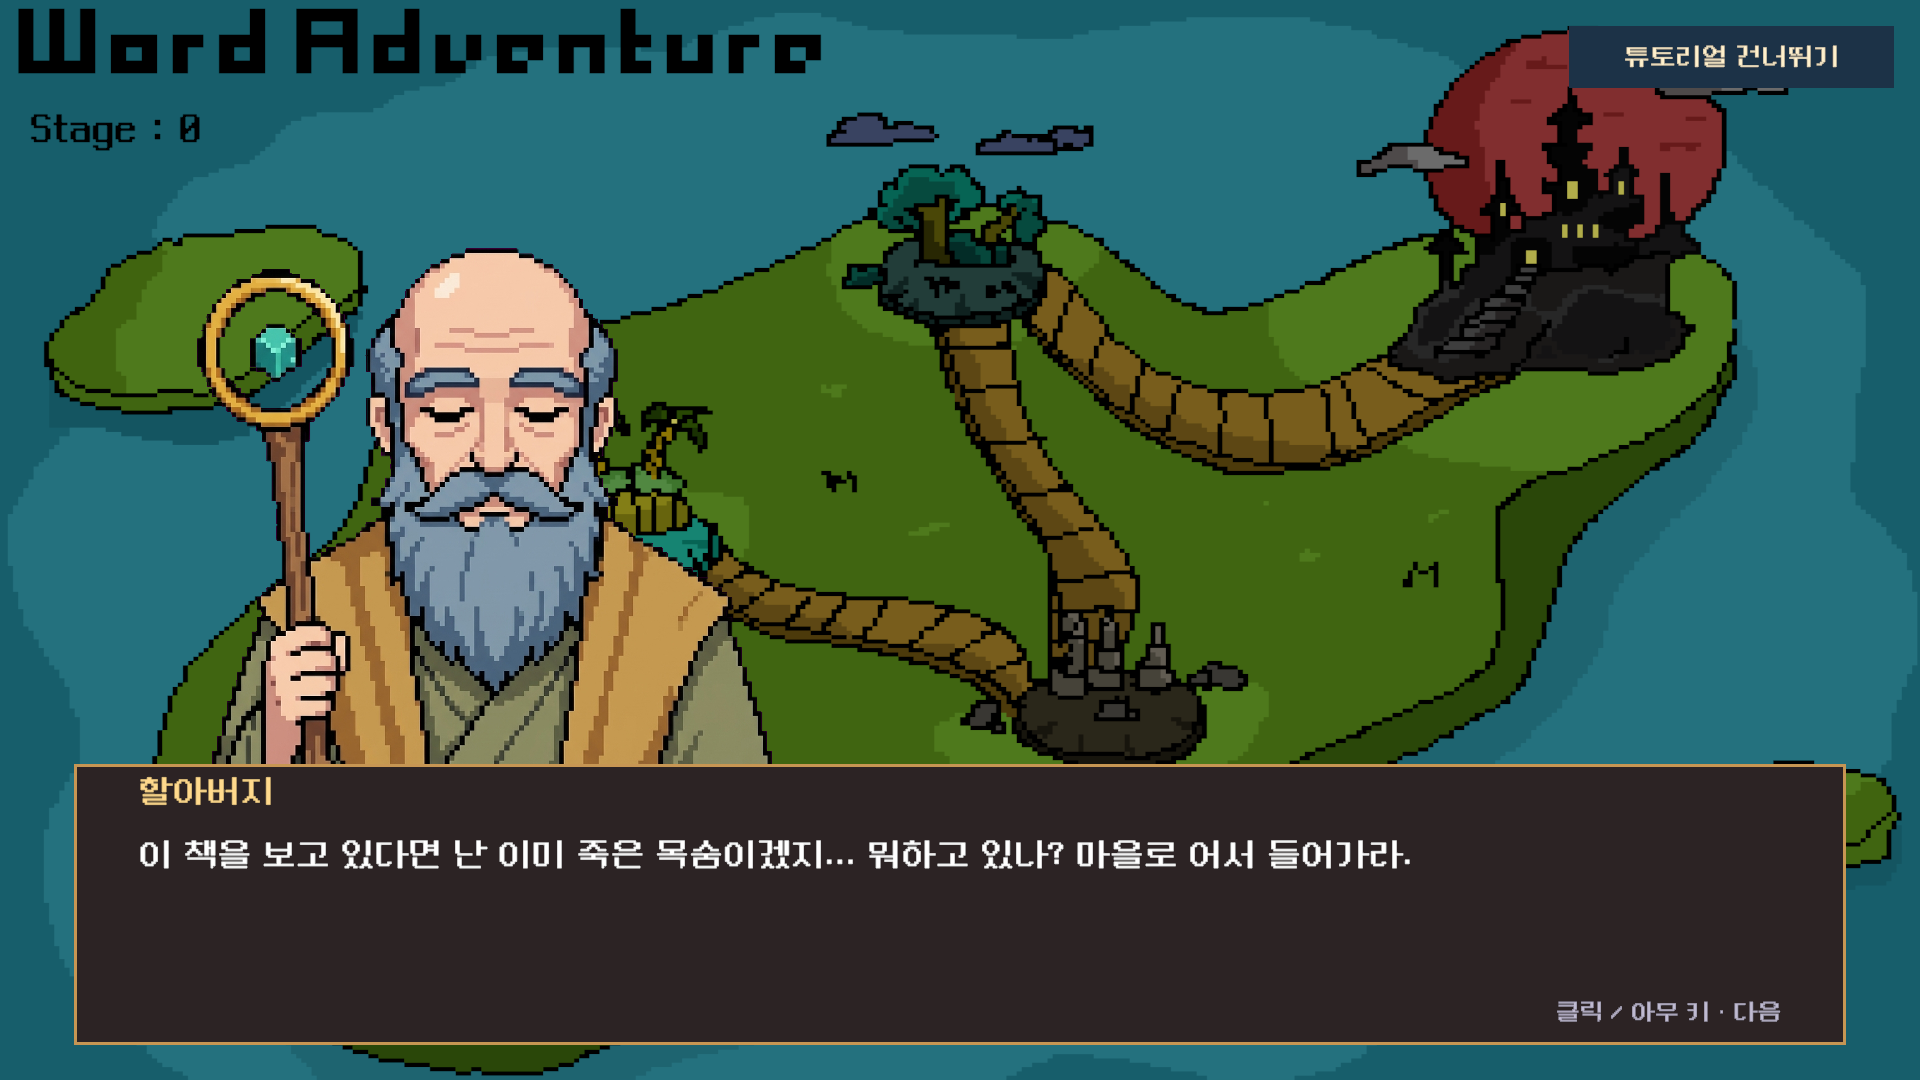
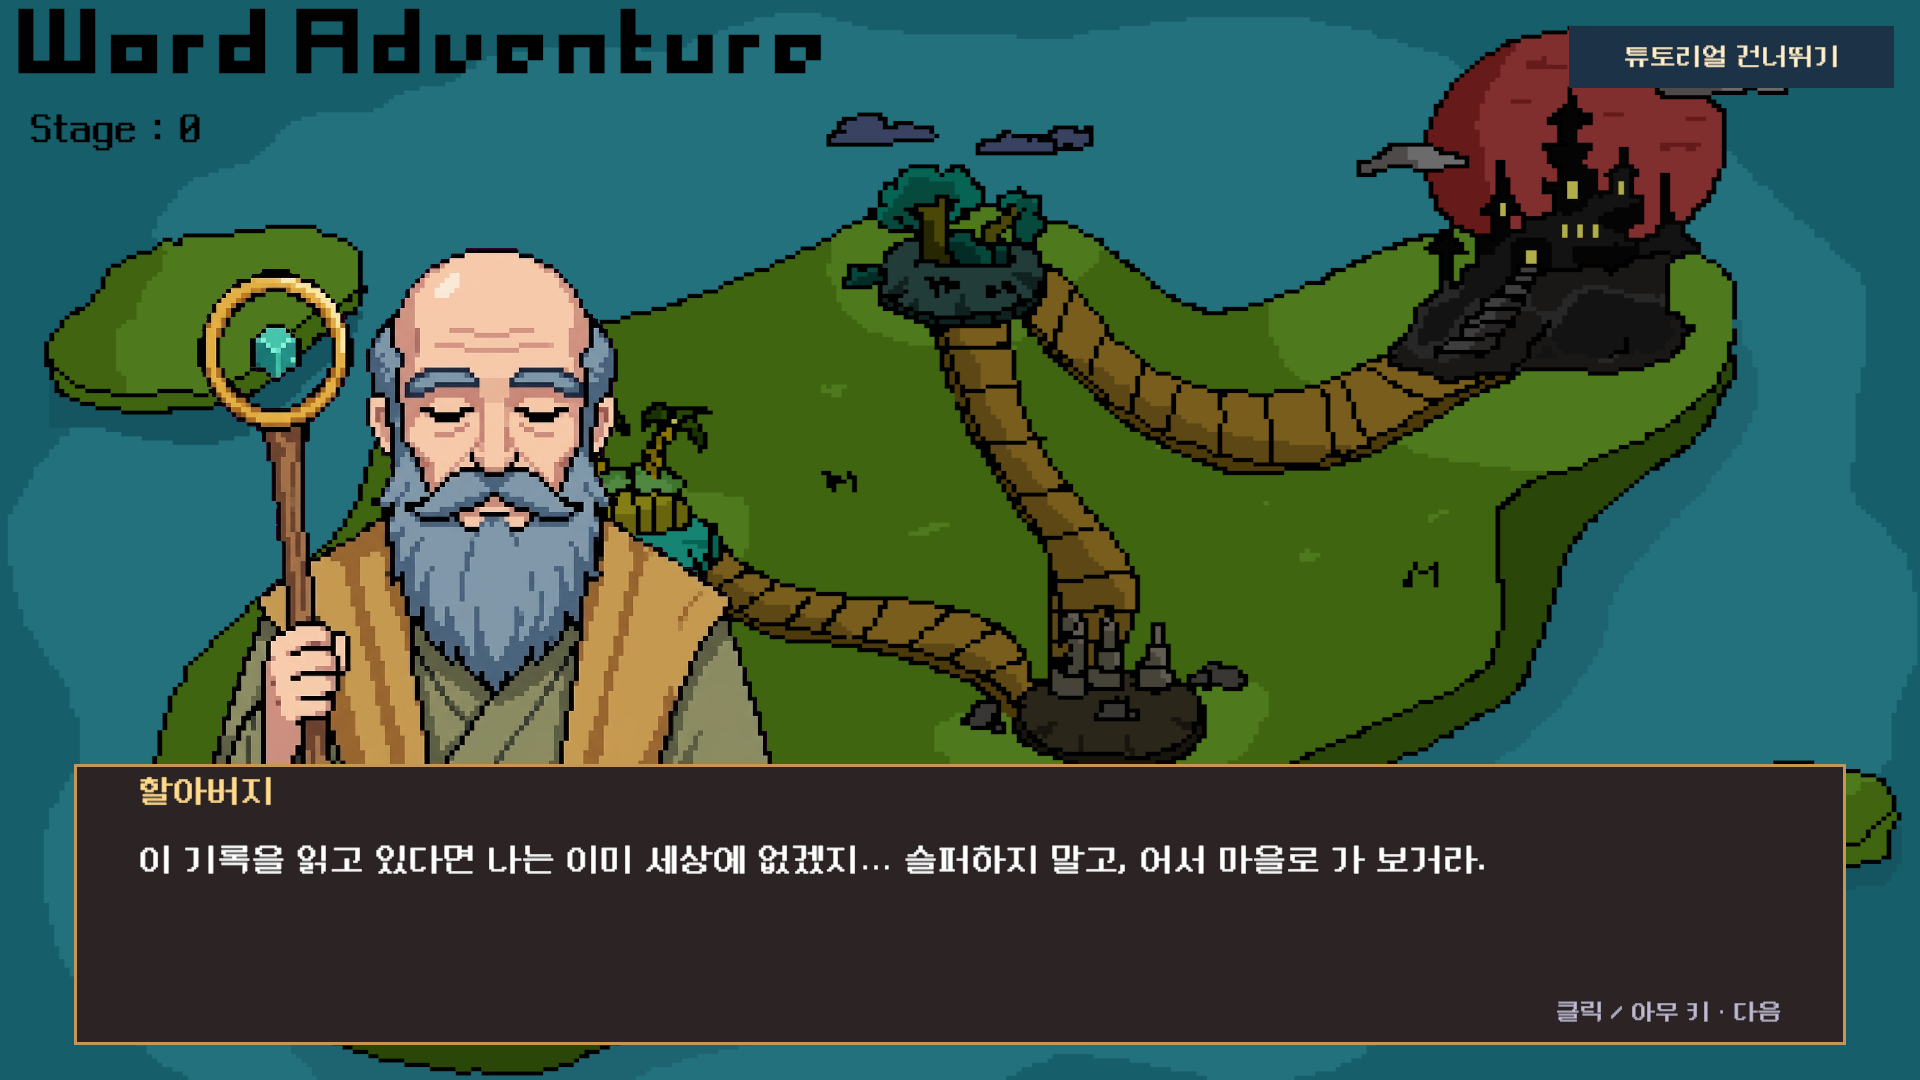
feat: 1부 대화 연결 나레이션 추가, 할아버지 말투 수정, 엔딩 전 깜박임 제거
- 대사 줄에 narration 을 추가하고, 첫 클리어는 할아버지 작별 → 워드의
  "…할아버지." → 나레이션 → 평원 주민 순서로, 마왕 처치 후는 남쪽 마을로
  내려가는 나레이션 뒤 재회하도록 이었다. 상대 초상화는 상대가 처음 말할
  때부터 보인다.
- 튜토리얼 할아버지 대사 13줄의 말투를 다듬었다.
- 마왕 성 입장과 마왕 처치 후처럼 다른 씬으로 넘어가는 대화는 씬이 바뀔
  때까지 대화창을 덮어 두어 맵이나 클리어 화면이 깜박이지 않게 했다.
- TMP Settings 에서 한글을 띄어쓰기 단위로 줄바꿈하게 했다.

Changed region(s): [[0.0938, 0.7639, 0.7812, 0.825]]

diff --git a/Assets/Scripts/Story/StageDialogueView.cs b/Assets/Scripts/Story/StageDialogueView.cs
@@ -25,12 +25,14 @@ namespace Story
         }
 
         // 다른 대화나 튜토리얼이 입력을 잡고 있으면 끝나기를 기다린 뒤 재생하고, 다 보면 읽음으로 기록한다.
-        public static IEnumerator Play(StageDialogueData data, StageDialogueChapter chapter)
+        // 대화 뒤에 다른 씬으로 넘어갈 때는 closeWhenDone 을 끄면 씬이 바뀔 때까지 마지막 대사를 덮어 두어
+        // 그 사이에 지금 씬이 비쳐 보이지 않는다.
+        public static IEnumerator Play(StageDialogueData data, StageDialogueChapter chapter, bool closeWhenDone = true)
         {
             if (InteractionLock.IsLocked) yield return new WaitUntil(() => !InteractionLock.IsLocked);
             bool completed = false;
             var view = new GameObject("StageDialogue", typeof(RectTransform)).AddComponent<StageDialogueView>();
-            view.Begin(data, chapter, () => completed = true);
+            view.Begin(data, chapter, () => completed = true, closeWhenDone);
             yield return new WaitUntil(() => completed);
             SaveLoadController.MarkStageDialogueSeen(chapter.SeenBit);
         }
@@ -42,9 +44,13 @@ namespace Story
         int line;
         bool ownsLock;
         bool finishing;
+        bool closeWhenDone = true;
+        bool speakerAppeared;
 
-        public void Begin(StageDialogueData data, StageDialogueChapter dialogue, Action onCompleted)
+        public void Begin(StageDialogueData data, StageDialogueChapter dialogue, Action onCompleted,
+            bool closeOnFinish = true)
         {
+            closeWhenDone = closeOnFinish;
             chapter = dialogue;
             dialogueData = data;
             completed = onCompleted;
@@ -101,8 +107,12 @@ namespace Story
         void ShowLine()
         {
             StageDialogueLine current = chapter.lines[line];
-            chat.SetPortraits(dialogueData.wordPortrait, chapter.speakerPortrait, current.wordSpeaking);
-            chat.UpdateChatStream(current.wordSpeaking ? "워드" : chapter.speakerName, current.text);
+            // 상대 초상화는 상대가 처음 말할 때부터 보여 준다. 워드의 혼잣말로 시작하는 대화에서 미리 나오지 않게 한다.
+            if (!current.wordSpeaking && !current.narration) speakerAppeared = true;
+            chat.SetPortraits(dialogueData.wordPortrait, speakerAppeared ? chapter.speakerPortrait : null, current.wordSpeaking);
+            // 이름을 비우면 공통 대화창이 이름과 초상화를 숨기고 나레이션으로 보여 준다.
+            string speaker = current.narration ? "" : current.wordSpeaking ? "워드" : chapter.speakerName;
+            chat.UpdateChatStream(speaker, current.text);
         }
 
         void Update()
@@ -134,7 +144,7 @@ namespace Story
             ownsLock = false;
             InteractionLock.IsLocked = false;
             completed?.Invoke();
-            Destroy(gameObject);
+            if (closeWhenDone) Destroy(gameObject);
         }
 
         void OnDestroy()

diff --git a/Assets/Tests/PlayMode/StageDialoguePlayTests.cs b/Assets/Tests/PlayMode/StageDialoguePlayTests.cs
@@ -127,8 +127,20 @@ namespace WordVenture.Tests
             yield return null;
             Assert.That(View, Is.Not.Null);
             Assert.That(SceneManager.GetActiveScene().name, Is.EqualTo("GameClearScene"));
-            yield return FinishDialogue();
+            for (int i = 0; i < 40 && !(bool)Field(View, "finishing"); i++)
+            {
+                Call(View, "Advance");
+                yield return null;
+            }
+            // 엔딩으로 넘어가는 동안 클리어 화면이 비쳐 보이지 않도록 대화창이 끝까지 덮고 있다.
+            for (int i = 0; i < 10 && SceneManager.GetActiveScene().name == "GameClearScene"; i++)
+            {
+                Assert.That(View, Is.Not.Null, "씬이 바뀌기 전에 대화창이 사라지면 클리어 화면이 깜박인다.");
+                yield return null;
+            }
             Assert.That(SceneManager.GetActiveScene().name, Is.EqualTo("EndingScene"));
+            Assert.That(View, Is.Null);
+            Assert.That(Locked, Is.False);
             Assert.That(PlayerPrefs.GetInt("ActOneDialogueSeen"), Is.EqualTo(16));
         }
 

diff --git a/Assets/Scripts/Scenes/GameClearController.cs b/Assets/Scripts/Scenes/GameClearController.cs
@@ -85,7 +85,8 @@ namespace Scenes
             // 첫 클리어에서는 할아버지의 작별 인사와 새 카드 안내가 모두 끝난 뒤에 대화한다.
             // 튜토리얼 대사 사이에도 입력 잠금이 잠깐 풀리므로 잠금 대신 튜토리얼 종료를 기다린다.
             while (TutorialController.Instance != null && !SaveLoadController.IsTutorialEnded) yield return null;
-            if (chapter != null) yield return StageDialogueView.Play(data, chapter);
+            // 마왕 처치 후에는 엔딩으로 넘어가므로 대화창을 닫지 않고 그대로 덮어 둔다.
+            if (chapter != null) yield return StageDialogueView.Play(data, chapter, stageID != 4);
             if (stageID == 4)
             {
                 leaving = true;

diff --git a/Assets/Scripts/Map/MapMove.cs b/Assets/Scripts/Map/MapMove.cs
@@ -204,7 +204,7 @@ namespace Map
 
         IEnumerator EnterAfterDialogue(StageDialogueData data, StageDialogueChapter chapter)
         {
-            yield return StageDialogueView.Play(data, chapter);
+            yield return StageDialogueView.Play(data, chapter, false);
             SceneManager.LoadScene("TurnBattleScene");
         }
 

diff --git a/Assets/Scripts/Story/StageDialogueData.cs b/Assets/Scripts/Story/StageDialogueData.cs
@@ -8,6 +8,8 @@ namespace Story
     public struct StageDialogueLine
     {
         public bool wordSpeaking;
+        [Tooltip("켜면 이름과 초상화 없이 나레이션으로 보여 준다.")]
+        public bool narration;
         [TextArea(2, 4)] public string text;
     }
 

diff --git a/docs/design/act-one-dialogues.md b/docs/design/act-one-dialogues.md
@@ -6,20 +6,24 @@
 
 | 시점 | 상대 | 대화의 역할 |
 | --- | --- | --- |
-| 평원 완료 | 평원 마을 주민 | 워드도 주민도 돌아갈 집을 잃었다는 공통점. 주민은 남쪽의 안전한 마을로 피한다 |
+| 평원 완료 | 평원 마을 주민 | 할아버지의 작별 뒤 워드가 "…할아버지." 하고, 한참 뒤 숨어 있던 주민이 말을 건다. 둘 다 돌아갈 집을 잃었다는 공통점. 주민은 남쪽의 안전한 마을로 피한다 |
 | 해안 완료 | 해안 어부 | 워드가 이름을 알려 주고 피난민의 안전을 먼저 묻는 작은 변화 |
 | 고원 완료 | 고원 양치기 소년 | 놓친 동생을 찾아 주고, 남쪽 마을에 들러 쉬라는 초대를 받음 |
 | 빗길 완료 | 빗길 경비병 | 복수와 함께 더 이상의 피해를 막고 싶다는 동기 |
 | 마왕 성 입장 | 워드 혼자 | "드디어"로 시작하는 각오. 할아버지와 길에서 만난 사람들을 떠올림 |
 | 마왕 등장 직전 (wave 2) | 슬라임 마왕 | 샌즈에게 당한 동족의 복수라는 마왕의 명분과, 아무도 집을 잃지 않게 하겠다는 워드의 답 |
 | 언데드 부활 직전 (wave 3) | 언데드 슬라임 마왕 | 원한 때문에 죽어서도 일어난 마왕. 워드는 원한과 복수를 함께 끝내자고 한다 |
-| 마왕 처치 후 | 평원 마을 주민 | 남쪽 마을에서 다시 만나 감사와 귀향. 워드도 돌아갈 관계가 생겼음을 보여 줌 |
+| 마왕 처치 후 | 평원 마을 주민 | 마왕이 쓰러지고 워드가 왔던 길을 되짚어 남쪽 마을로 내려가는 나레이션 뒤, 그곳에서 다시 만나 감사와 귀향. 워드도 돌아갈 관계가 생겼음을 보여 줌 |
 
 지역마다 다른 피난민을 만나고, 평원에서 처음 만난 주민만 마지막에 한 번 다시 만난다. 마지막 대화에서 어부와 양치기 소년도 남쪽 마을에 와 있다고 알려 준다. 호위나 구조 전투 규칙을 추가하지 않고 전후 대사로 표현한다.
 
 클리어 화면에 들어오면 먼저 지역 대화를 보여 주고, 대화가 끝난 뒤 키 입력으로 새 카드를 보여 준 다음 맵으로 나간다. 첫 클리어(평원)에서는 할아버지의 작별 인사와 새 카드 안내 튜토리얼이 먼저 끝난 뒤 지역 대화를 시작한다. 튜토리얼 대사 사이에도 입력 잠금이 잠깐 풀리므로 잠금 대신 튜토리얼 종료 기록을 기다린다. 마왕 성은 맵에서 들어갈 때 대화한 뒤 전투 씬으로 넘어간다. 마왕 전투에서는 `BossBattleWaveData` 의 wave 2(`SlimeKing1`)와 wave 3(`SlimeKing2`)를 시작하기 직전에 대화하고, 대화가 끝나야 적이 나온다. 전투 중 대화는 배경 그림 없이 반투명 막만 깔아 전투 화면이 비쳐 보이게 한다. 보스는 클리어 대화 뒤 귀향 엔딩으로 넘어간다. 클릭이나 아무 키로 타이핑 완료/다음 대사를 구분한다. 마지막 입력은 한 프레임 소비해서 다음 화면으로 넘어가지 않는다.
 
-대화마다 `stageID`, `moment`(`Clear`·`Enter`·`Wave`), `wave` 로 재생 시점을 정하고, `speakerName`·`speakerPortrait` 로 상대를 정한다.
+대화마다 `stageID`, `moment`(`Clear`·`Enter`·`Wave`), `wave` 로 재생 시점을 정하고, `speakerName`·`speakerPortrait` 로 상대를 정한다. 대사 줄의 `narration` 을 켜면 이름과 초상화 없이 나레이션으로 보여 준다. 상대 초상화는 상대가 처음 말할 때부터 보여 준다.
+
+대화 뒤에 다른 씬으로 넘어가는 경우(마왕 성 입장 → 전투, 마왕 처치 후 → 엔딩)에는 대화창을 닫지 않고 씬이 바뀔 때까지 마지막 대사를 덮어 둔다. 대화창을 먼저 닫으면 그 사이 한두 프레임 동안 맵이나 클리어 화면이 깜박인다.
+
+한글은 띄어쓰기 단위로 줄바꿈한다(`TMP Settings.asset` 의 `m_UseModernHangulLineBreakingRules`).
 
 읽음 기록은 `ActOneDialogueSeen` 비트 마스크로 저장한다. 클리어 대화는 0~4번, 입장 대화는 5~9번, wave 대화는 10~29번 비트(10 + stageID × 4 + wave)를 쓴다. 클리어 비트는 이전 버전과 같아서 기존 세이브의 읽음 기록이 유지된다. 같은 대화는 반복하지 않고 새 게임에서 초기화한다. 대화를 끝내기 전에 나가면 읽음 처리하지 않는다. 기존 세이브에는 키가 없어도 정상 동작하며, 이전에 지나간 지역의 대화를 자동으로 몰아서 재생하지 않는다.
 
